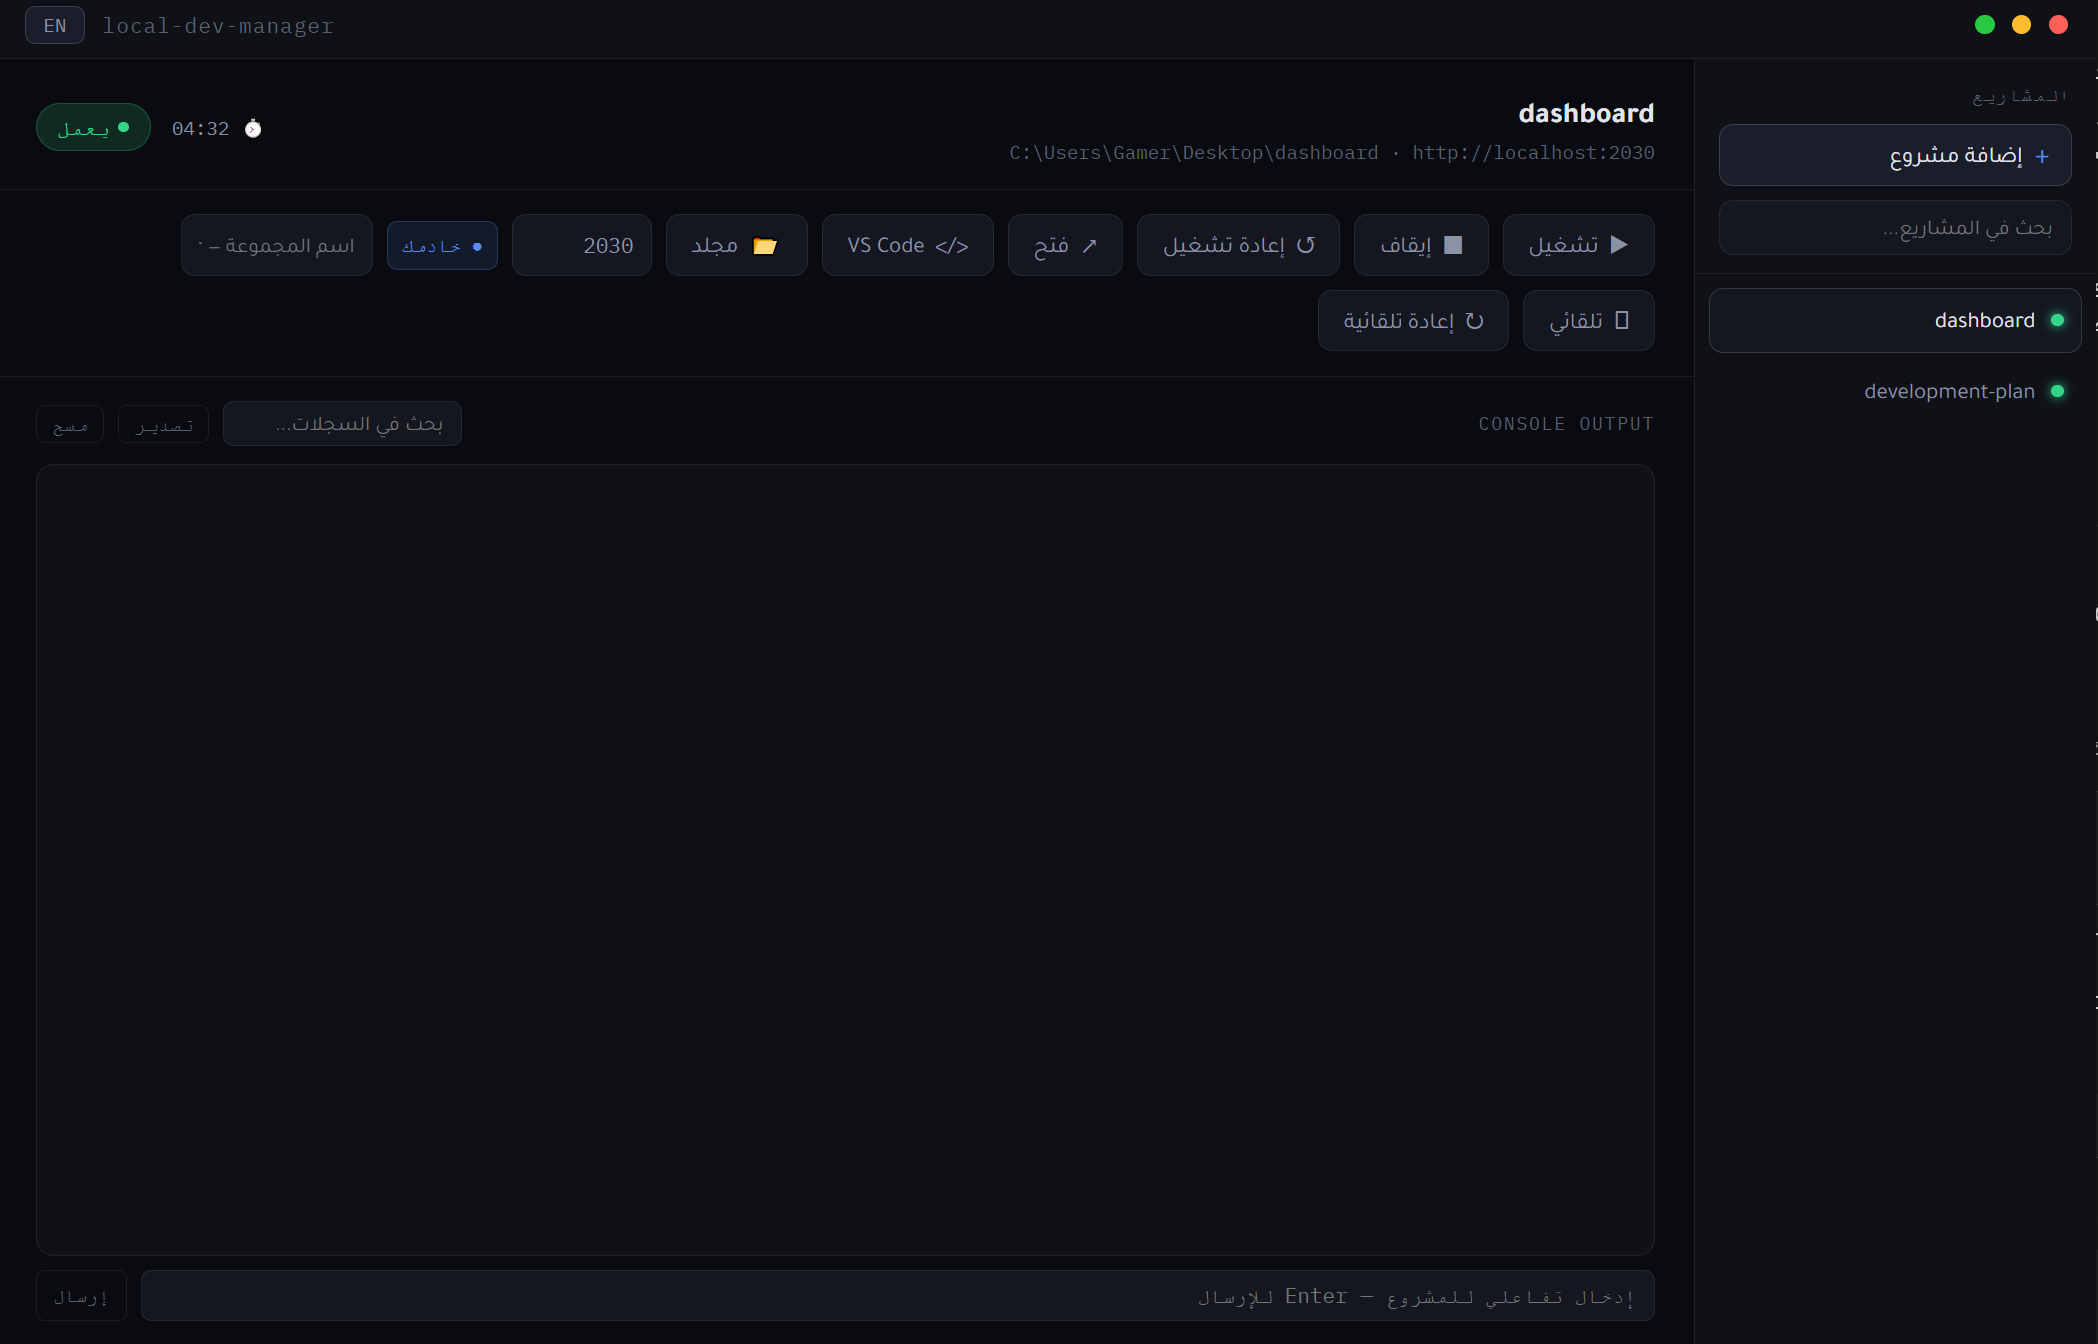
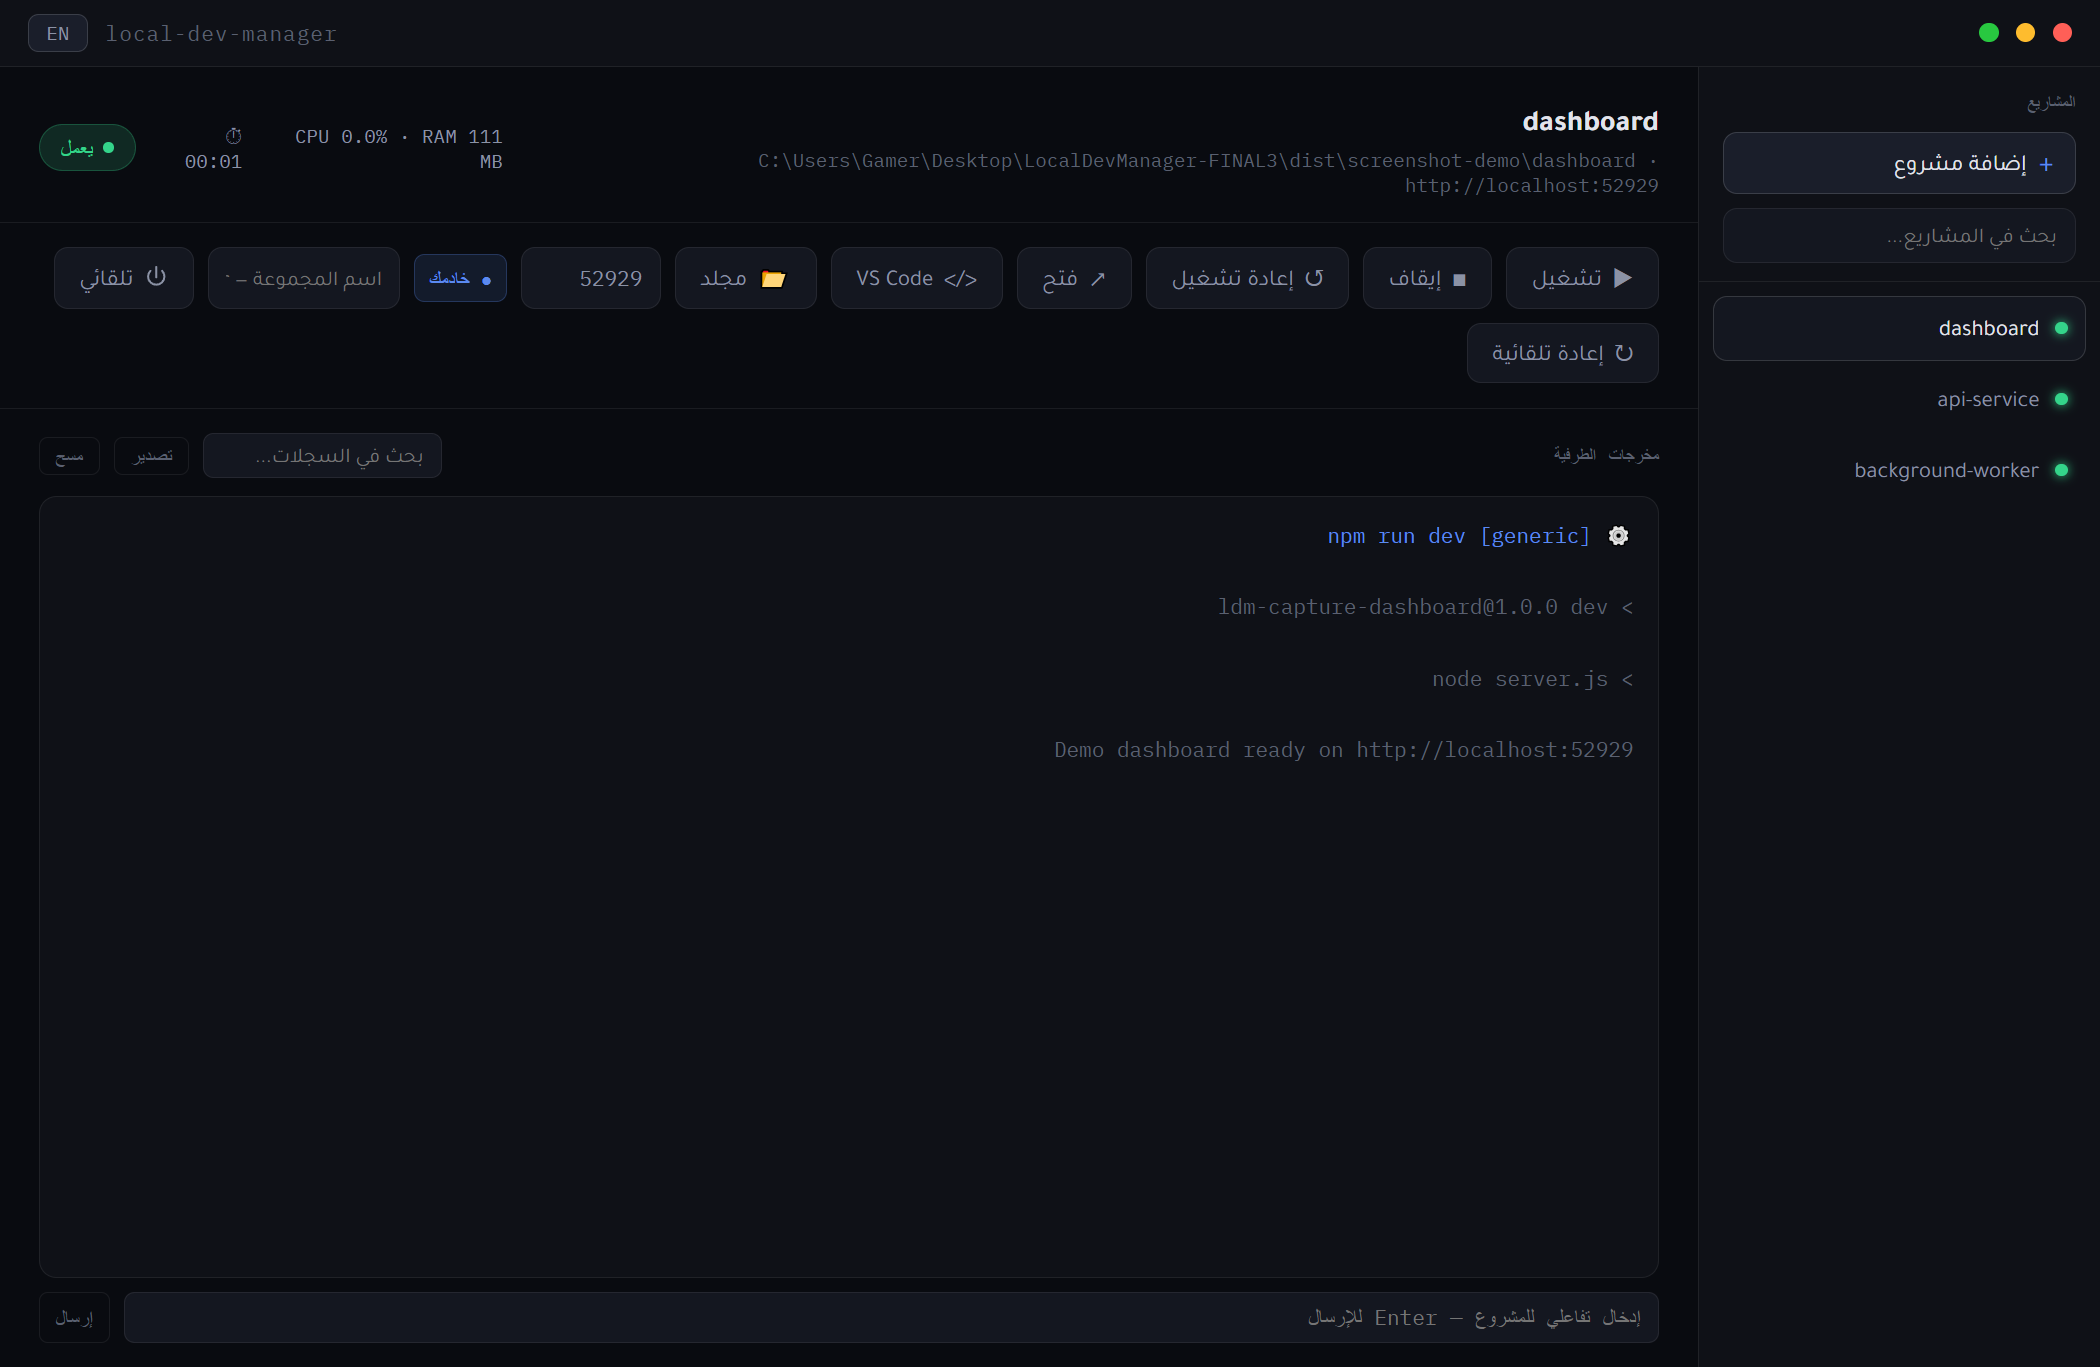
docs: refresh application screenshots

diff --git a/README.ar.md b/README.ar.md
@@ -39,7 +39,7 @@
 
 ## صور التطبيق
 
-الصور توثّق تجربة يدوية، وليست نتيجة اختبار آلي. تظهر صورة المشروع العامل أعلى الصفحة؛ اضغط على أي صورة أدناه لفتحها بحجمها الكامل.
+التُقطت هذه الصور من التطبيق أثناء تشغيل مشاريع تجريبية معزولة، وليست تصاميم تخيلية للواجهة. تظهر صورة المشروع العامل أعلى الصفحة؛ اضغط على أي صورة أدناه لفتحها بحجمها الكامل.
 
 | مساحة عمل فارغة                                                                                  | مشروع متوقف                                                                                                  |
 | ------------------------------------------------------------------------------------------------ | ------------------------------------------------------------------------------------------------------------ |
@@ -48,6 +48,10 @@
 | مشروعان يعملان                                                                                                 | الواجهة العربية                                                                                           |
 | -------------------------------------------------------------------------------------------------------------- | --------------------------------------------------------------------------------------------------------- |
 | [![مشروعان يعملان في Local Dev Manager](docs/images/multiple-projects.png)](docs/images/multiple-projects.png) | [![واجهة Local Dev Manager بالعربية](docs/images/arabic-interface.png)](docs/images/arabic-interface.png) |
+
+### أمر مخصص
+
+[![عامل خلفي يعمل بأمر مخصص في Local Dev Manager](docs/images/custom-command.png)](docs/images/custom-command.png)
 
 ## طريقة العمل المعتادة
 

diff --git a/README.md b/README.md
@@ -39,7 +39,7 @@ The app chooses an available port from 3000 when a project is added. It installs
 
 ## Screenshots
 
-These screenshots show manual use of the application, not automated test results. The running-project view is shown above; select any image below to open it at full size.
+These screenshots were captured from the running application with isolated demo projects; they are not interface mockups. The running-project view is shown above; select any image below to open it at full size.
 
 | Empty workspace                                                                                  | Stopped project                                                                                                   |
 | ------------------------------------------------------------------------------------------------ | ----------------------------------------------------------------------------------------------------------------- |
@@ -48,6 +48,10 @@ These screenshots show manual use of the application, not automated test results
 | Two running projects                                                                                                 | Arabic interface                                                                                            |
 | -------------------------------------------------------------------------------------------------------------------- | ----------------------------------------------------------------------------------------------------------- |
 | [![Two running projects in Local Dev Manager](docs/images/multiple-projects.png)](docs/images/multiple-projects.png) | [![Arabic Local Dev Manager interface](docs/images/arabic-interface.png)](docs/images/arabic-interface.png) |
+
+### Custom command
+
+[![A running background worker using a custom command in Local Dev Manager](docs/images/custom-command.png)](docs/images/custom-command.png)
 
 ## Typical workflow
 

diff --git a/README.zh-CN.md b/README.zh-CN.md
@@ -39,7 +39,7 @@
 
 ## 应用截图
 
-截图展示的是人工操作，不代表自动化测试结果。运行中项目的截图位于页面顶部；点击下方图片可查看原图。
+这些截图取自运行中的应用和隔离的演示项目，并非界面效果图。运行中项目的截图位于页面顶部；点击下方图片可查看原图。
 
 | 空白工作区                                                                                  | 已停止的项目                                                                                            |
 | ------------------------------------------------------------------------------------------- | ------------------------------------------------------------------------------------------------------- |
@@ -48,6 +48,10 @@
 | 两个运行中的项目                                                                                                | 阿拉伯语界面                                                                                            |
 | --------------------------------------------------------------------------------------------------------------- | ------------------------------------------------------------------------------------------------------- |
 | [![Local Dev Manager 中两个运行中的项目](docs/images/multiple-projects.png)](docs/images/multiple-projects.png) | [![Local Dev Manager 阿拉伯语界面](docs/images/arabic-interface.png)](docs/images/arabic-interface.png) |
+
+### 自定义命令
+
+[![Local Dev Manager 中使用自定义命令运行的后台任务](docs/images/custom-command.png)](docs/images/custom-command.png)
 
 ## 常见流程
 
